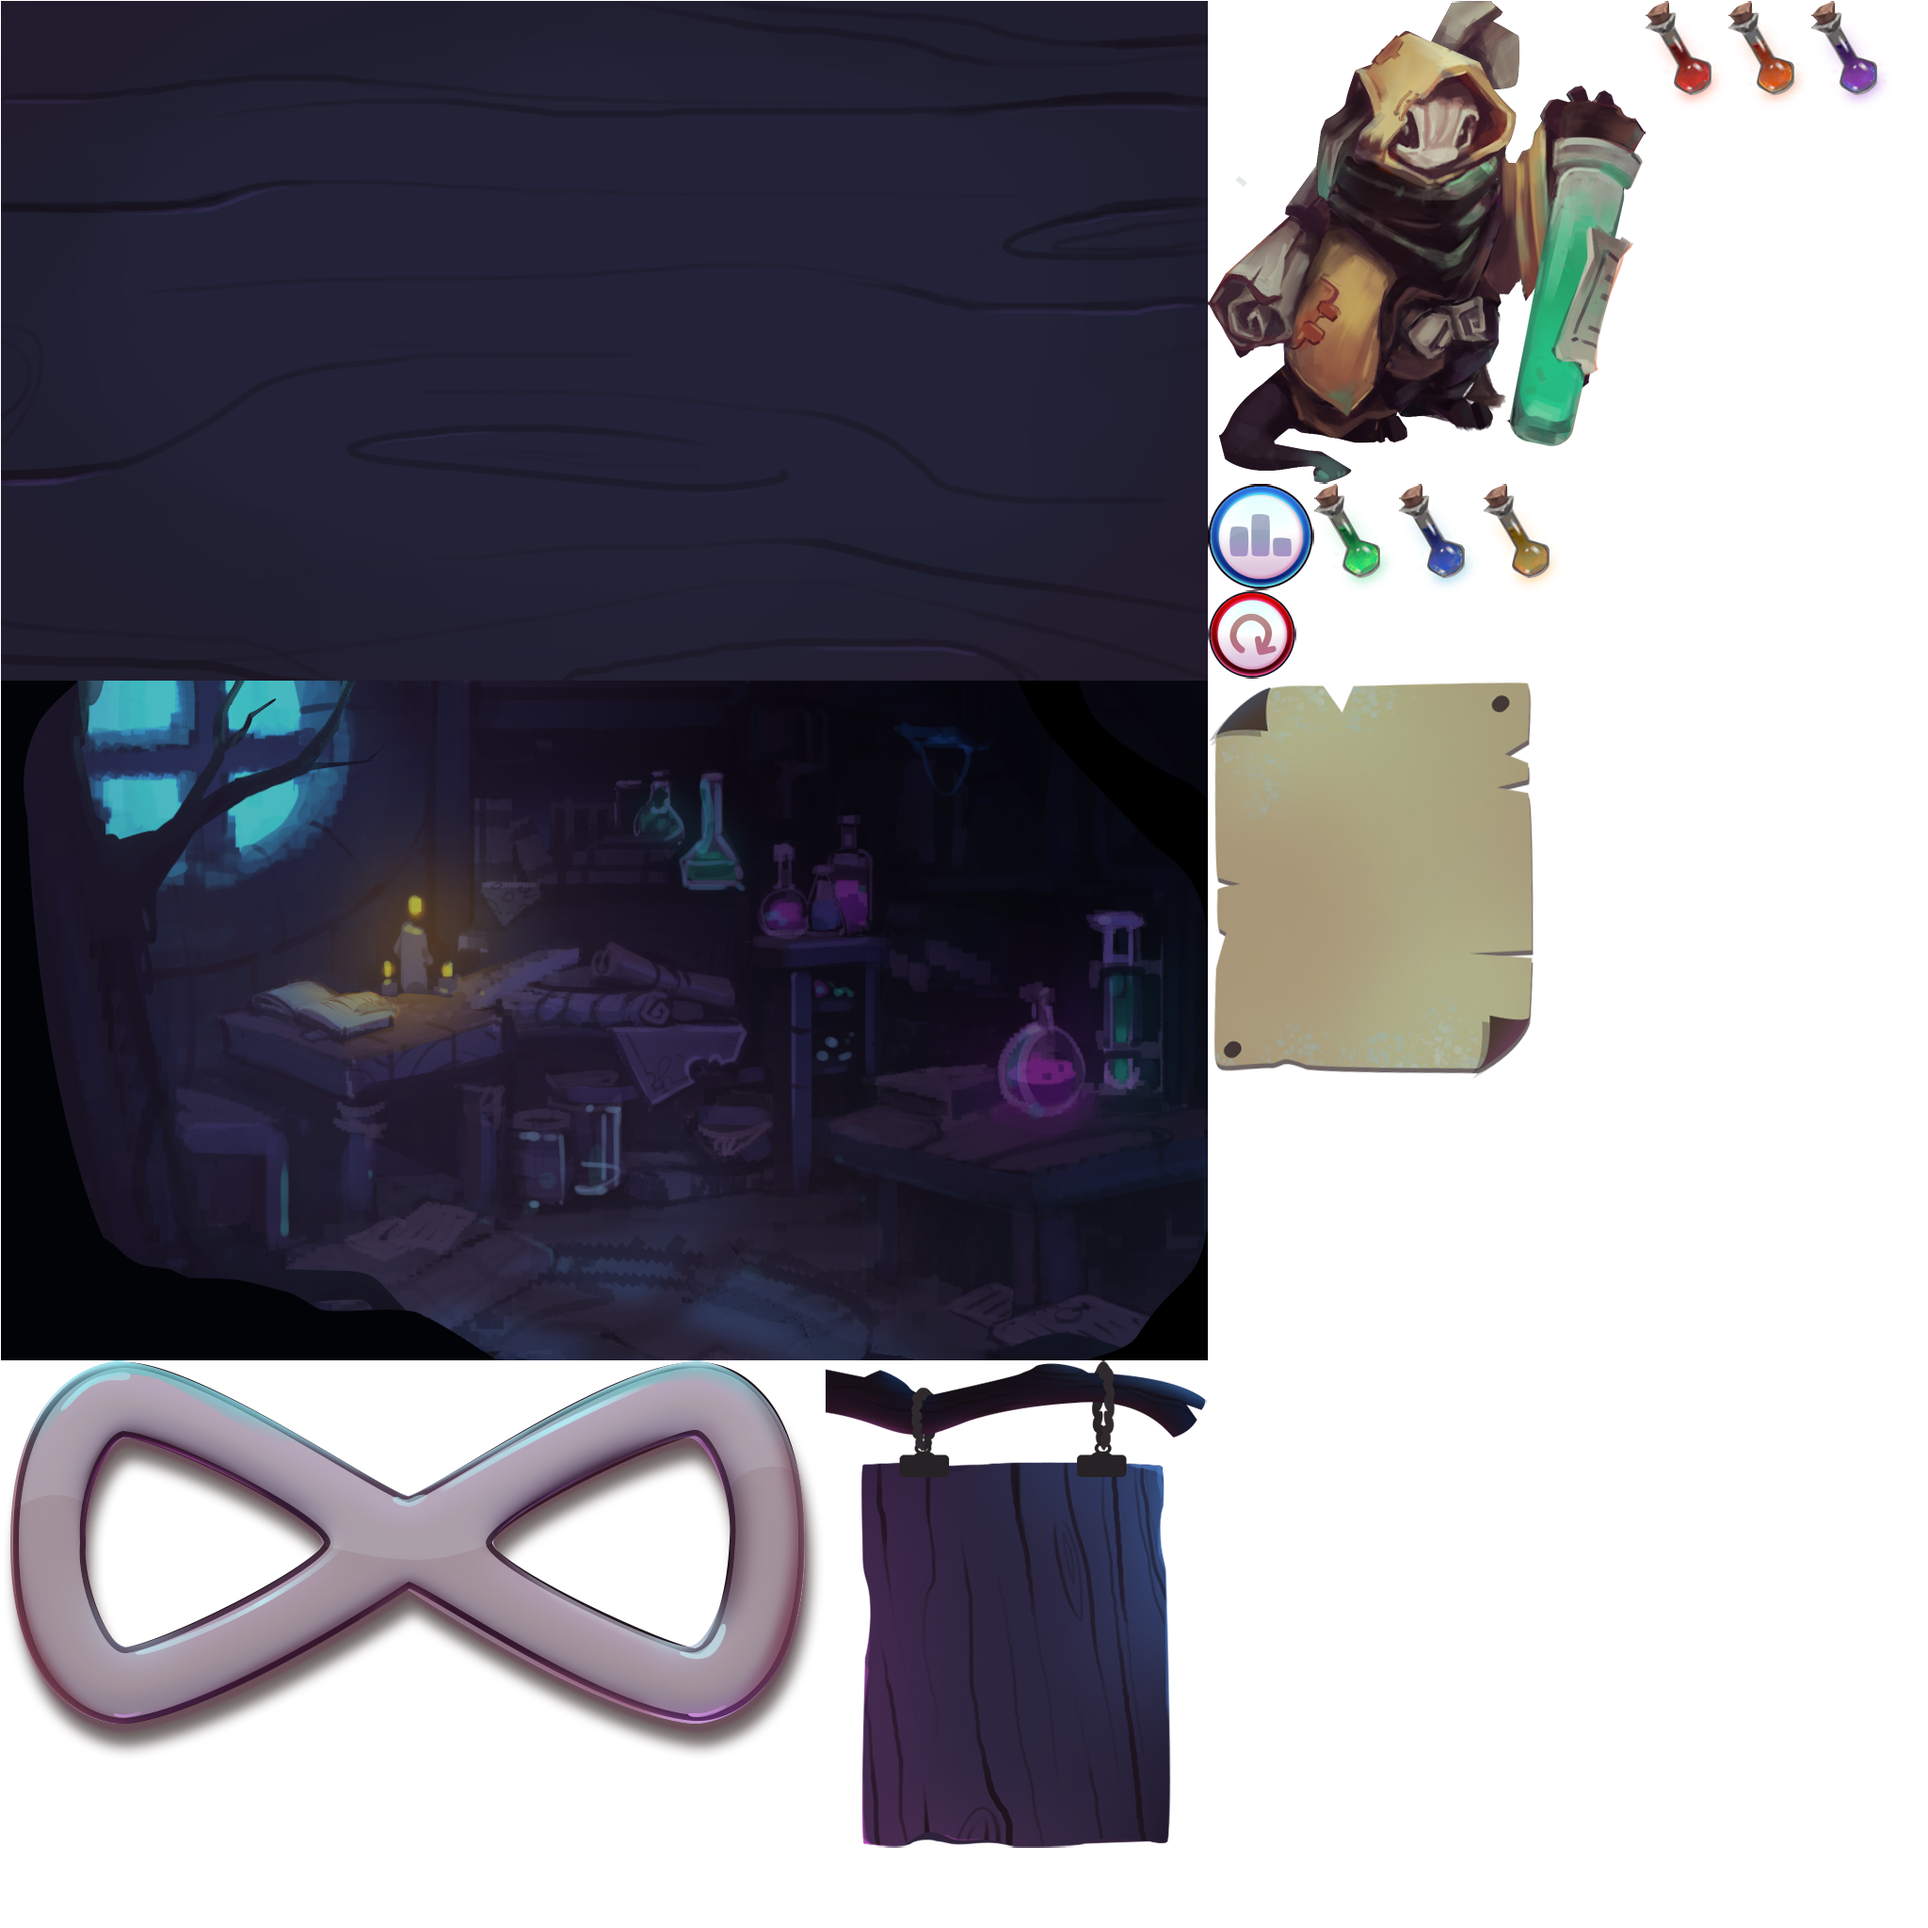
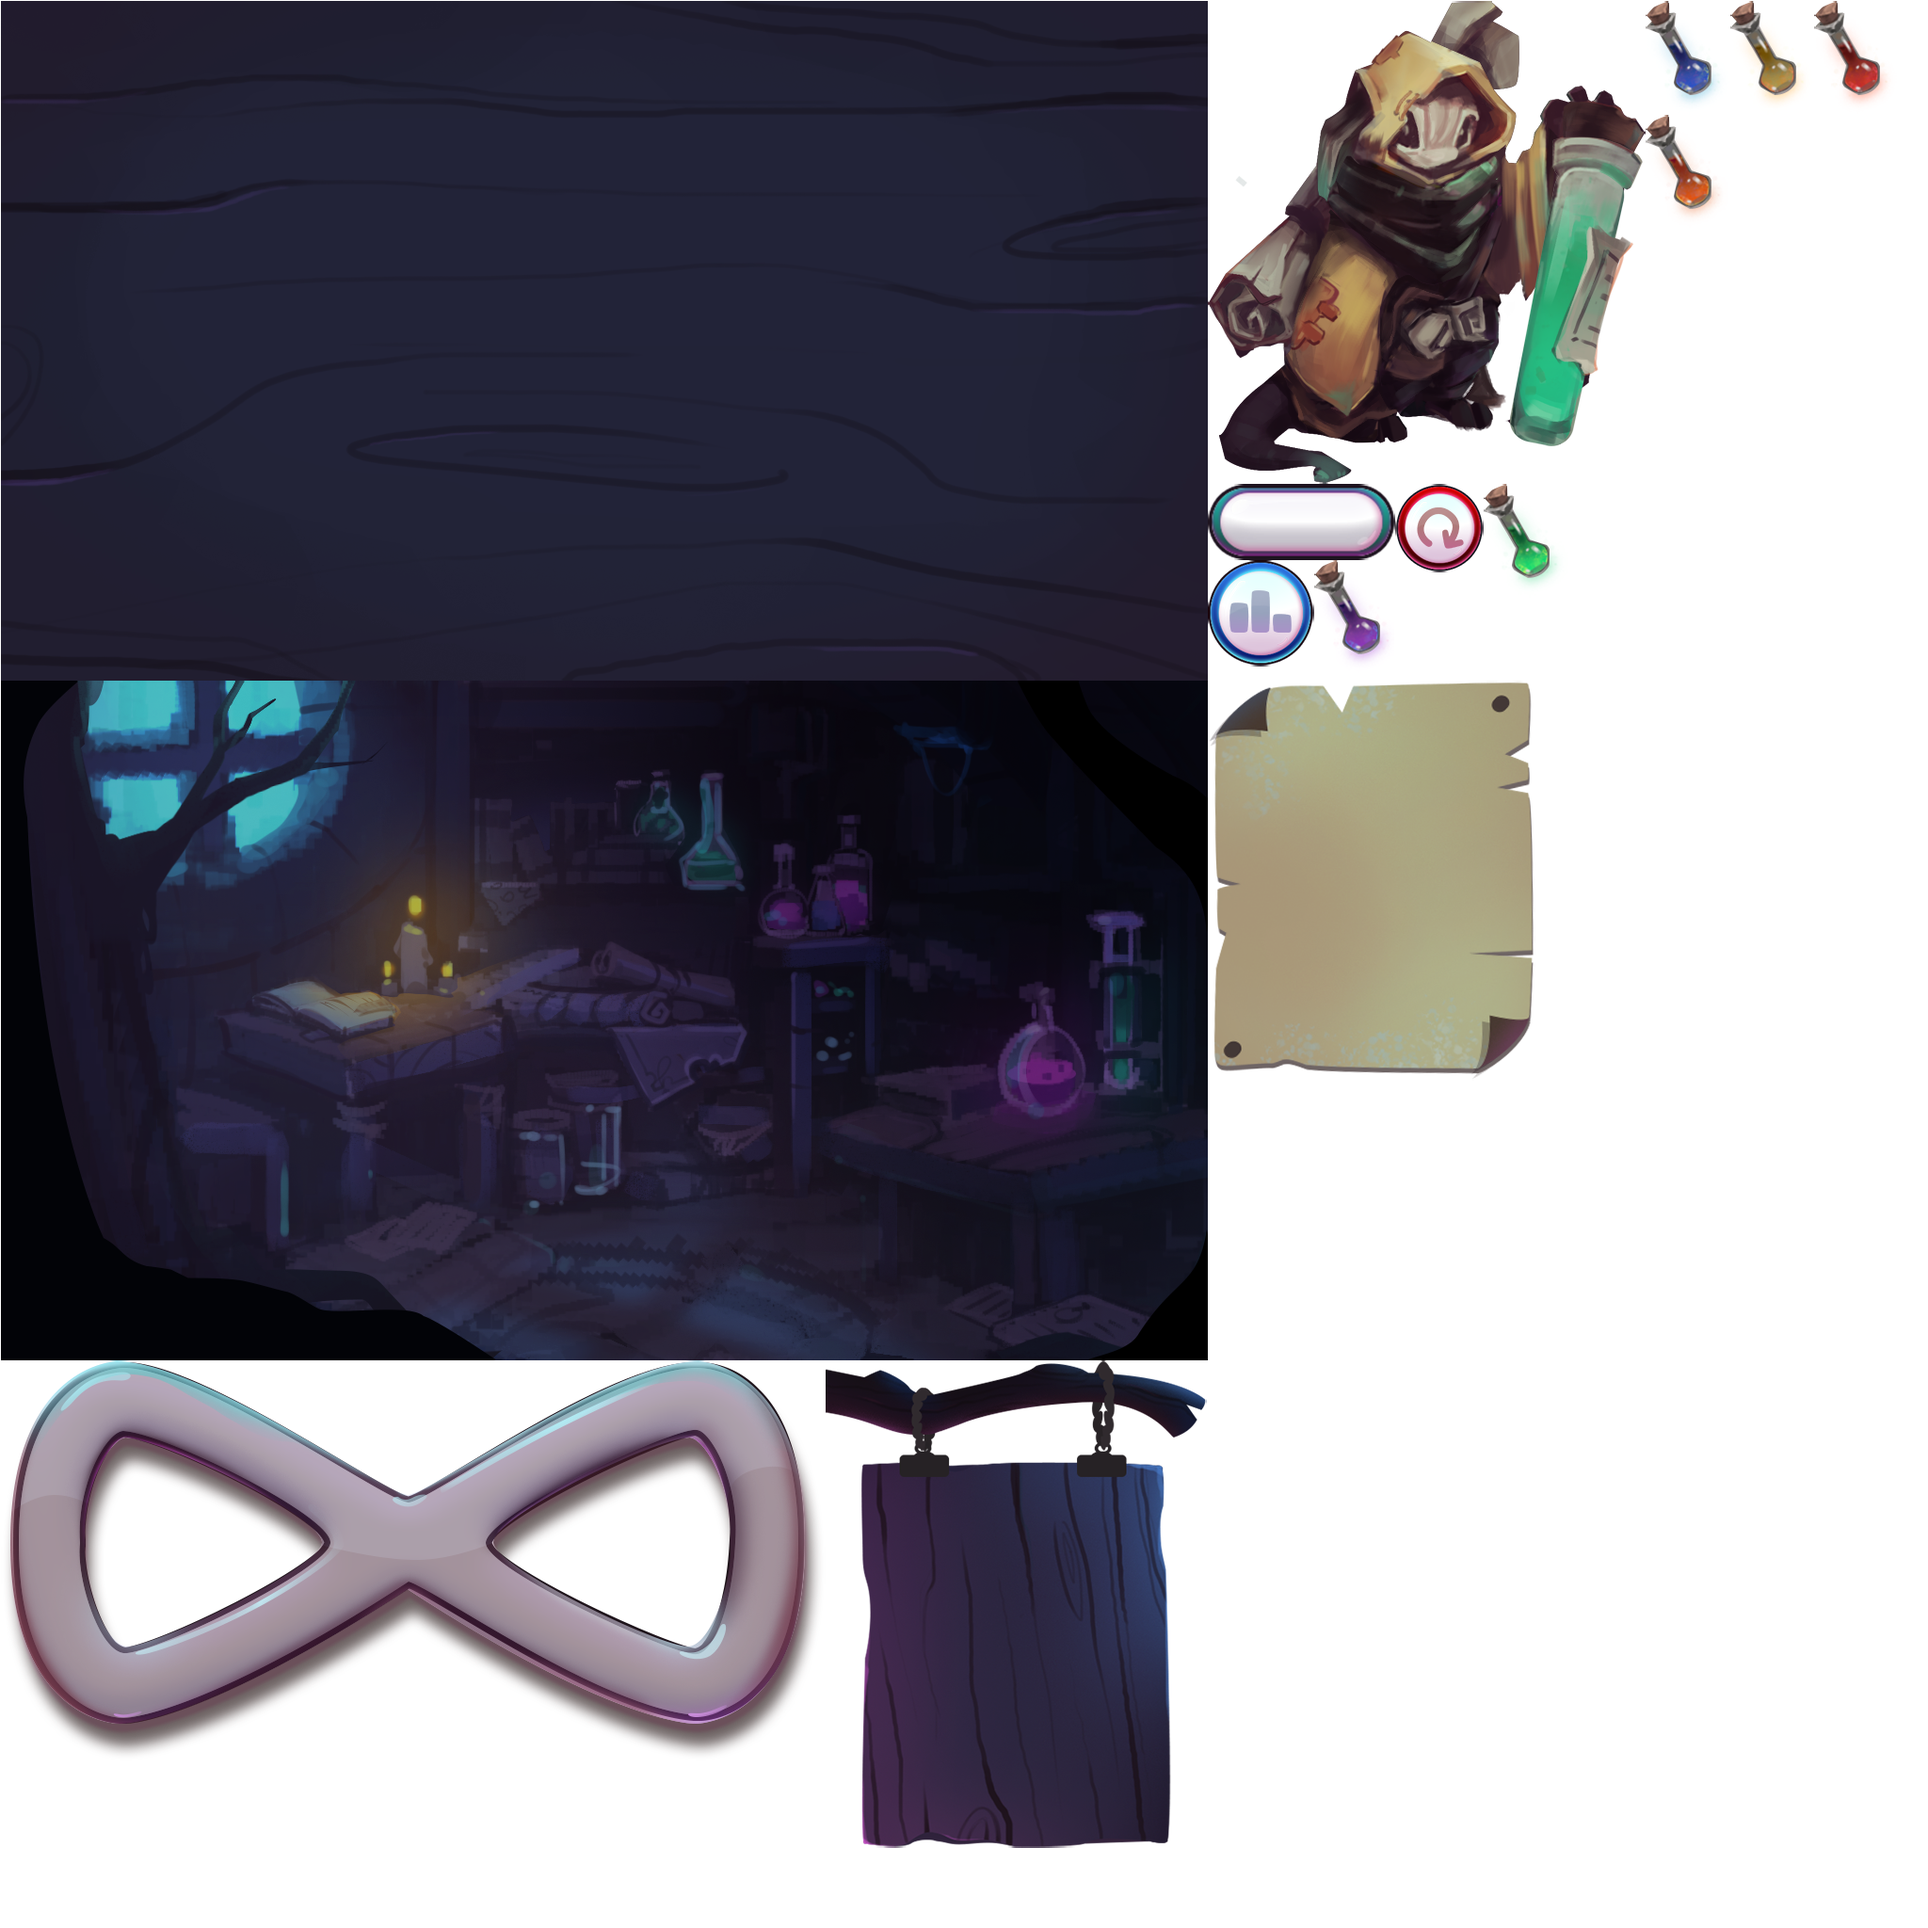
Main manu UI

Changed region(s): [[0.625, 0.25, 0.8125, 0.375], [0.8438, 0.0, 1.0, 0.0938], [0.875, 0.0938, 0.9062, 0.125]]

diff --git a/core/src/com/chemicalmagicians/liquidizer/ui/MainMenuUI.java b/core/src/com/chemicalmagicians/liquidizer/ui/MainMenuUI.java
@@ -1,12 +1,16 @@
 package com.chemicalmagicians.liquidizer.ui;
 
 import com.badlogic.gdx.Gdx;
+import com.badlogic.gdx.graphics.Color;
 import com.badlogic.gdx.graphics.g2d.Sprite;
 import com.badlogic.gdx.graphics.g2d.TextureAtlas;
+import com.badlogic.gdx.scenes.scene2d.InputEvent;
 import com.badlogic.gdx.scenes.scene2d.ui.Image;
 import com.badlogic.gdx.scenes.scene2d.ui.Table;
+import com.badlogic.gdx.scenes.scene2d.utils.ClickListener;
 import com.badlogic.gdx.scenes.scene2d.utils.TextureRegionDrawable;
 import com.badlogic.gdx.utils.Align;
+import com.chemicalmagicians.liquidizer.gamescreens.Gameplay;
 import com.chemicalmagicians.liquidizer.gamescreens.MainMenu;
 
 public class MainMenuUI extends Table {
@@ -41,9 +45,18 @@ public class MainMenuUI extends Table {
 		Sprite paperSprite = atlas.createSprite("paper");
 		paperSprite.flip(true,false);
 		Image paper = new Image(new TextureRegionDrawable(paperSprite));
-		paper.scaleBy(-0.15f);
+		paper.scaleBy(-0.3f);
 		Table paperTable = new Table();
-		paperTable.add(paper).align(Align.center).padTop(40).padLeft(50);
+		paperTable.add(paper).align(Align.center).padTop(20).padRight(-100);
+		paperTable.row();
+		Image playButton = new Image(atlas.findRegion("play-btn"));
+		playButton.addListener(new ClickListener(){
+			@Override
+			public void clicked(InputEvent event, float x, float y) {
+//				System.out.println("click");
+			}
+		});
+		paperTable.add(playButton);
 		table.stack(new Image(new TextureRegionDrawable(boardSprite)),paperTable);
 		return table;
 	}

diff --git a/core/src/com/chemicalmagicians/liquidizer/gamescreens/MainMenu.java b/core/src/com/chemicalmagicians/liquidizer/gamescreens/MainMenu.java
@@ -1,13 +1,30 @@
 package com.chemicalmagicians.liquidizer.gamescreens;
 
+import com.badlogic.gdx.Gdx;
+import com.badlogic.gdx.graphics.g2d.TextureAtlas;
+import com.badlogic.gdx.scenes.scene2d.ui.Image;
+import com.badlogic.gdx.scenes.scene2d.utils.TextureRegionDrawable;
+import com.badlogic.gdx.utils.Align;
 import com.chemicalmagicians.liquidizer.GameScreen;
 import com.chemicalmagicians.liquidizer.Liquidizer;
 import com.chemicalmagicians.liquidizer.interfaces.IMainMenu;
+import com.chemicalmagicians.liquidizer.ui.MainMenuUI;
 
 public class MainMenu extends GameScreen implements IMainMenu {
+    private MainMenuUI mainMenuUI;
+    private TextureAtlas atlas;
 
     public MainMenu (Liquidizer liquidizer) {
         super(liquidizer);
+        atlas=new TextureAtlas(Gdx.files.internal("atlas.pack"));
+        mainMenuUI=new MainMenuUI();
+        setBackground(new TextureRegionDrawable(atlas.findRegion("backgraund-game-start-menu")));
+        add(mainMenuUI).grow();
+    }
 
+
+    public void start() {
+
+        System.out.println("started");
     }
 }

diff --git a/core/src/com/chemicalmagicians/liquidizer/Liquidizer.java b/core/src/com/chemicalmagicians/liquidizer/Liquidizer.java
@@ -37,19 +37,20 @@ public class Liquidizer extends ApplicationAdapter {
 		ExtendViewport extendViewport = new ExtendViewport(1280,720, 4000, 1920, camera);
 		stage = new Stage(extendViewport, batch);
 		Gdx.input.setInputProcessor(stage);	// todo: KAREVOR TOX
-		//Load and init
 
-		//load
 
-		//init
+
 		mainMenu = new MainMenu(this);
 		levelSelection = new LevelSelection(this);
 		gameplay = new Gameplay(this);
 
 		gameController = new GameController(this);
 
-		gameplay.start();
-		stage.addActor(gameplay);
+		mainMenu.start();
+		stage.addActor(mainMenu);
+
+//		gameplay.start();
+//		stage.addActor(gameplay);
 
 	}
 
@@ -58,7 +59,7 @@ public class Liquidizer extends ApplicationAdapter {
 		Gdx.gl.glClearColor(0.2f, 0.2f, 0.2f, 1);
 		Gdx.gl.glClear(GL20.GL_COLOR_BUFFER_BIT);
 
-		gameplay.render();
+//		gameplay.render();
 
 		stage.act();
 		stage.draw();

diff --git a/core/src/com/chemicalmagicians/liquidizer/gamescreens/Gameplay.java b/core/src/com/chemicalmagicians/liquidizer/gamescreens/Gameplay.java
@@ -71,7 +71,7 @@ public class Gameplay extends GameScreen implements IGameplay {
         glassPath.setOrigin(Align.center);
         glassPath.setPosition(200,120);
         colb.addActor(glassPath);
-        gameScreenUI = new GameScreenUI();
+//        gameScreenUI = new GameScreenUI();
 //        mainMenuUI =new MainMenuUI();
         addActor(elixirGroup);
         addActor(colb);
@@ -232,8 +232,8 @@ public class Gameplay extends GameScreen implements IGameplay {
         }
         sr.end();
         setFillParent(true);
-        add(gameScreenUI).grow();
-//        add(mainMenuUI).grow();
+//        add(gameScreenUI).grow();
+        add(mainMenuUI).grow();
     }
 
     private void fillWithElixir(int length, int startIndex, Color color) {
